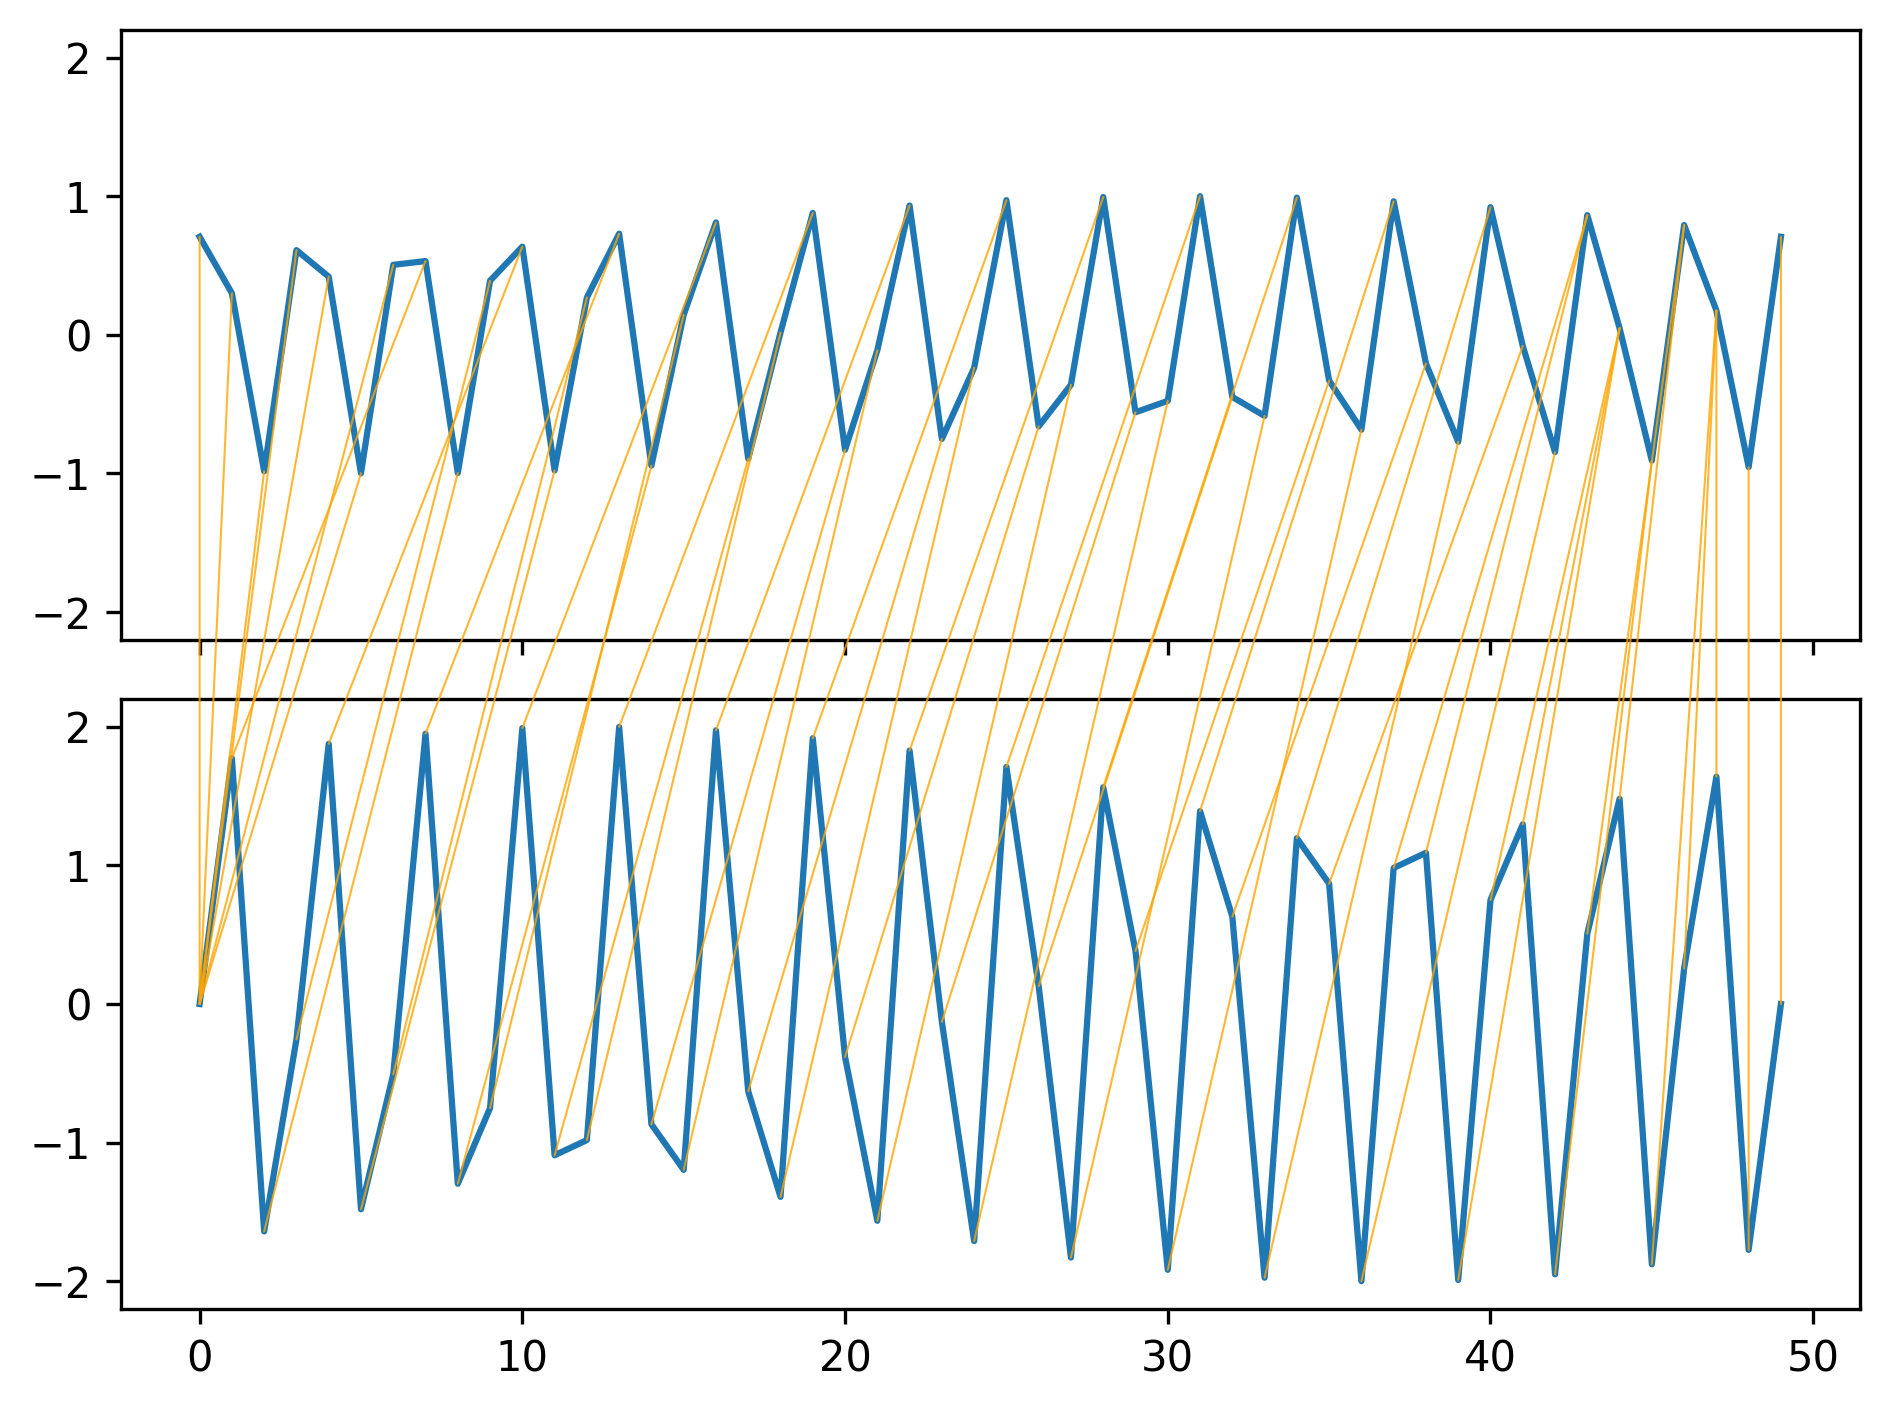
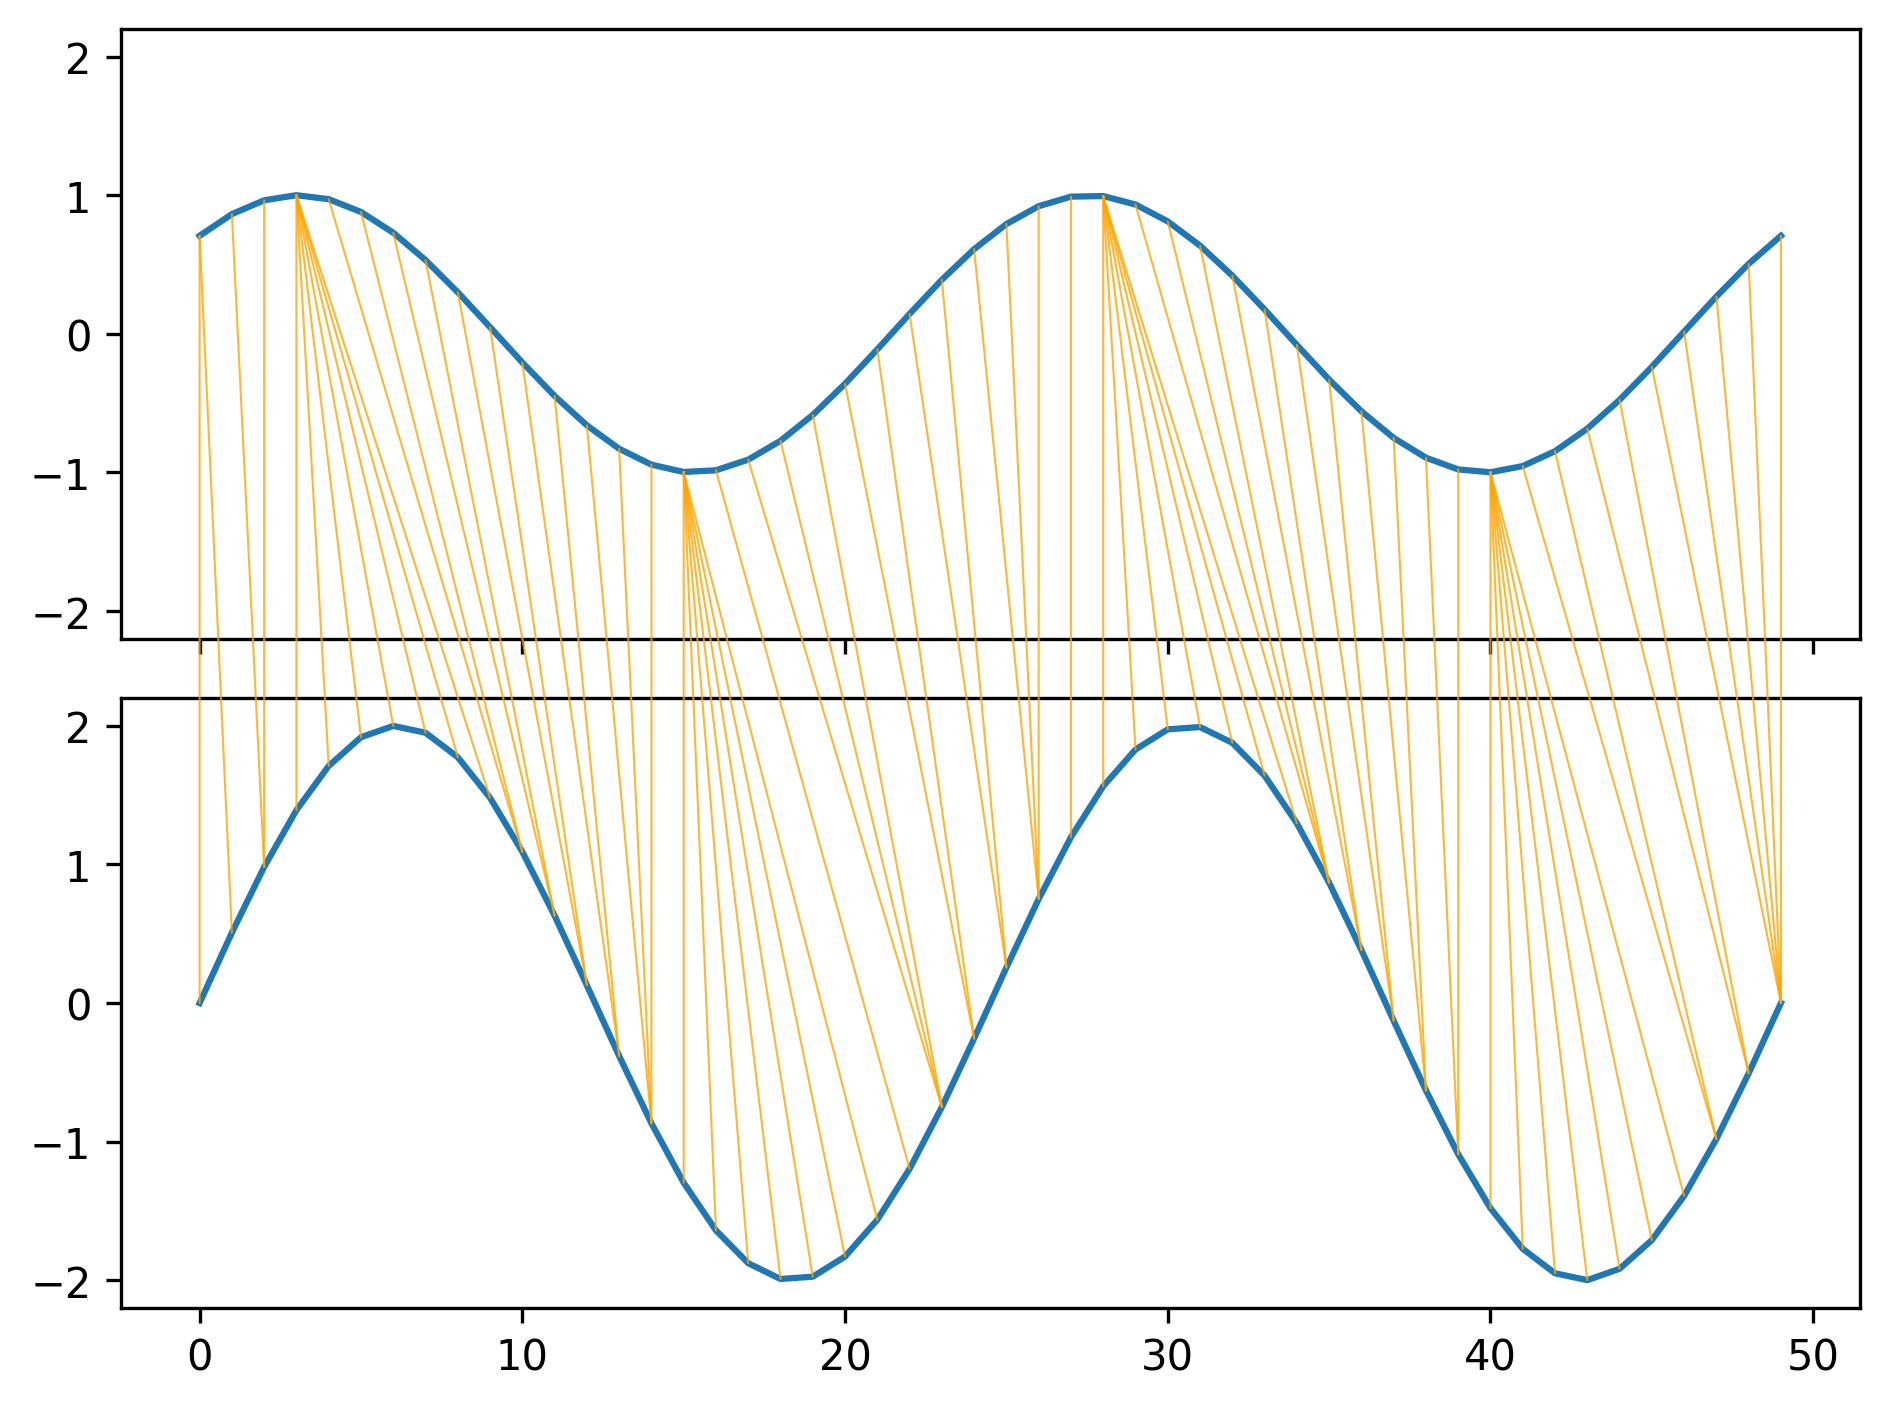
Added another test example

Changed region(s): [[0.0937, 0.1249, 0.9677, 0.9056]]

diff --git a/test.py b/test.py
@@ -17,8 +17,8 @@ from dtaidistance import dtw, dtw_visualisation as dtwvis
 
 t = np.linspace(0, 1, 50)
 
-x1 = np.sin(2*np.pi*800*t + np.pi/4)
-x2 = 2 * np.sin(2*np.pi*800*t)
+x1 = np.sin(2*np.pi*2*t + np.pi/4)
+x2 = 2 * np.sin(2*np.pi*2*t)
 
 
 warp_path = dtw.warping_path(x1, x2, use_c=False)
